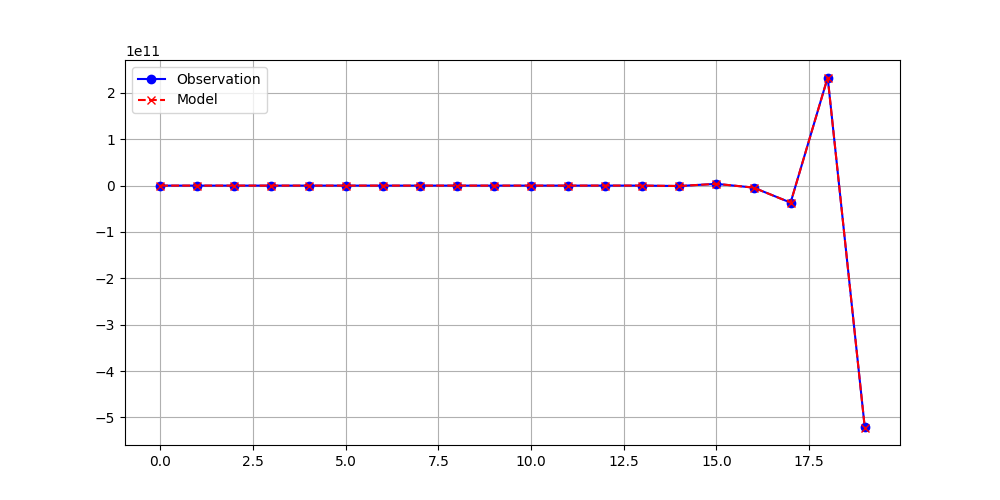
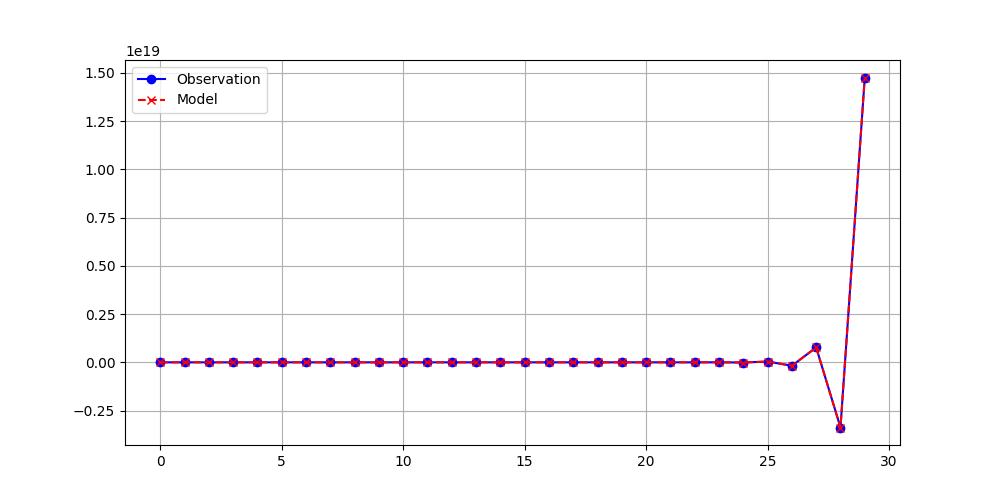
Fixed Gamma dimension

diff --git a/main.py b/main.py
@@ -38,7 +38,7 @@ U_BOUNDS = np.array([0.0, 7.0])
 USE_JAX_OPTIMIZER = True 
 
 # --- ГЛОБАЛЬНЫЕ КОНСТАНТНЫЕ МАТРИЦЫ ---
-CONST_GAMMA = np.eye(n)
+CONST_GAMMA = np.array([[1.0], [0.0]])
 CONST_H     = np.array([[1.0, 0.0]])
 CONST_Q     = np.eye(p) * 0.3
 CONST_R     = np.eye(m) * 0.4
@@ -54,7 +54,7 @@ def build_parametric_matrices(theta, xp):
     
     F = xp.array([
         [th1, 1.0], 
-        [-15, 0.0]
+        [-1.0, 0.0]
     ])
     
     Psi = xp.array([
